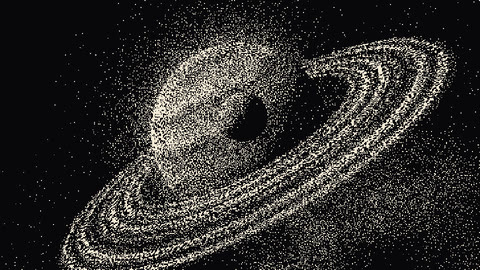
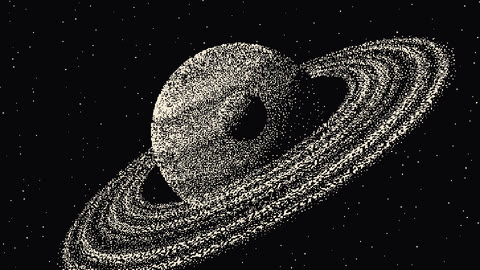
Fix #30 Dithering zoom-out clumping & dirty 1-bit background haze (1:1 Nyquist blue noise + crisp obsidian space)

diff --git a/docs/effects/dithering/shaders.js b/docs/effects/dithering/shaders.js
@@ -227,33 +227,32 @@ void evalGasGiant(vec3 pRot, float tFlow, out vec3 albedo, out float bandContras
   bandContrast = zone;
 }
 
-// Background diagonal Milky Way ribbon & crisp starfield (gives near-black dither noise-floor & PS1 banding test!)
+// Background cosmic nebula (color eras) & razor-clean starfield (crisp pure black space in 1-bit!)
 void evalSpaceBackground(vec3 rd, out vec3 col, out float luma) {
-  // Delicate diagonal Milky Way dust ribbon sloping lower-left -> upper-right behind the gas giant!
+  // Subtle deep-indigo & warm-ivory diagonal nebula for color eras (Mega Drive & PS1 RGB555 banding test)
   vec3 mwNormal = normalize(vec3(0.48, -0.80, 0.36));
   float dPlane = dot(rd, mwNormal) + 0.02;
-  float mwWide = exp(-pow(dPlane * 4.4, 2.0));
-  float mwCore = exp(-pow(dPlane * 10.5, 2.0));
-  float mwCloud = fbm3(rd * 4.6 + vec3(2.3, 1.1, 4.7));
+  float mwWide = exp(-pow(dPlane * 5.2, 2.0));
+  float mwCloud = fbm3(rd * 4.8 + vec3(2.3, 1.1, 4.7));
   float mwRift  = smoothstep(0.42, 0.70, fbm3(rd * 8.8 + vec3(5.1, 2.4, 0.8)));
-  float dust = (mwWide * 0.42 + mwCore * 0.48) * smoothstep(0.24, 0.84, mwCloud) * (1.0 - 0.56 * mwRift);
+  float dust = mwWide * smoothstep(0.28, 0.84, mwCloud) * (1.0 - 0.55 * mwRift);
 
-  // Smooth deep-indigo & warm-ivory cosmic gradient (exposes PS1 RGB555 banding & Atkinson black clip without overpowering rings!)
   vec3 baseVoid = vec3(0.008, 0.013, 0.028);
   vec3 mwColor  = mix(vec3(0.14, 0.22, 0.40), vec3(0.42, 0.37, 0.32), mwCloud) * dust;
   col = baseVoid + mwColor;
-  luma = clamp(dust * 0.28, 0.0, 0.52);
+  // Keep 1-bit void crisp pitch-black (zero muddy scatter clouds when zooming out!)
+  luma = 0.0;
 
-  // Crisp multi-scale pinpoint stars locked on celestial sphere
-  vec3 sc = rd * 132.0;
+  // Crisp pinpoint stars locked on celestial sphere
+  vec3 sc = rd * 138.0;
   vec3 si = floor(sc);
   vec3 sf = fract(sc) - 0.5;
   float sh = hash31(si);
-  if (sh > 0.982) {
+  if (sh > 0.986) {
     vec3 jitter = vec3(hash31(si + 7.1), hash31(si + 13.7), hash31(si + 29.3)) - 0.5;
-    float d = length(sf - jitter * 0.55);
-    float star = smoothstep(0.22, 0.03, d) * smoothstep(0.982, 0.998, sh);
-    vec3 starTint = mix(vec3(0.80, 0.90, 1.0), vec3(1.0, 0.92, 0.74), hash31(si + 41.2));
+    float d = length(sf - jitter * 0.52);
+    float star = smoothstep(0.20, 0.03, d) * smoothstep(0.986, 0.999, sh);
+    vec3 starTint = mix(vec3(0.82, 0.90, 1.0), vec3(1.0, 0.92, 0.76), hash31(si + 41.2));
     col += starTint * star * 1.15;
     luma = max(luma, star * 0.96);
   }
@@ -311,15 +310,14 @@ void main() {
   float spaceLuma;
   evalSpaceBackground(rd, spaceCol, spaceLuma);
 
-  // Lush smooth atmospheric halo glow around the sunlit planetary limb (super clear PS1 RGB555 banding test!)
+  // Soft color halo around sunlit limb (color eras only — 1-bit space stays razor-clean obsidian black!)
   float closestT = max(0.0, -dot(ro, rd));
   vec3 closestP = ro + rd * closestT;
   float limbDist = length(closestP) - PLANET_R;
-  float haloMask = exp(-max(limbDist, 0.0) * 4.4) * step(0.0, limbDist);
-  float haloSun = smoothstep(-0.32, 0.72, dot(normalize(closestP), sunDir));
-  vec3 haloCol = vec3(0.38, 0.62, 0.96) * haloMask * (0.14 + 0.62 * haloSun);
+  float haloMask = exp(-max(limbDist, 0.0) * 5.2) * step(0.0, limbDist);
+  float haloSun = smoothstep(-0.22, 0.72, dot(normalize(closestP), sunDir));
+  vec3 haloCol = vec3(0.38, 0.62, 0.96) * haloMask * (0.12 + 0.60 * haloSun);
   spaceCol += haloCol;
-  spaceLuma = clamp(spaceLuma + haloMask * (0.06 + 0.30 * haloSun), 0.0, 1.0);
 
   // Start with sky/space as base solid hit
   float tSolid = 1e9;
@@ -398,9 +396,11 @@ void main() {
     objId = 0.66;
     edgeMask = smoothstep(0.28, 0.06, ndv);
     // Co-rotating equal-area cube UV tightly in [-1, +1] for full RGBA16F precision on ALL 6 cube faces!
+    // Exact 1:1 Nyquist pixel footprint at the planet's center distance so dots stay razor-sharp 1px at any zoom!
     float pFace = 0.0;
     surfUv = sphereCubeUv(pRot, pFace);
-    surfFoot = (4.0 / PI) * (tPlanet * pixelRad / PLANET_R) / max(ndv, 0.46);
+    float planetDist = max(length(ro) - PLANET_R * 0.55, 0.6);
+    surfFoot = (4.0 / PI) * (planetDist * pixelRad / PLANET_R);
     surfKind = 10.0 + pFace;
   }
 
@@ -428,7 +428,8 @@ void main() {
     edgeMask = smoothstep(0.36, 0.08, ndv);
     float mFace = 0.0;
     surfUv = sphereCubeUv(mLoc, mFace);
-    surfFoot = (4.0 / PI) * (tMoon * pixelRad / MOON_R) / max(ndv, 0.48);
+    float moonDist = max(length(ro - moonPos) - MOON_R * 0.5, 0.4);
+    surfFoot = (4.0 / PI) * (moonDist * pixelRad / MOON_R);
     surfKind = 20.0 + mFace;
   }
 
@@ -470,8 +471,8 @@ void main() {
       float rAng = uLoopPeriod > 0.5 ? (uTime / uLoopPeriod) * (2.0 * PI) : uTime * 0.08;
       rSpin.xz = rot2(rAng) * ringHitLoc.xz;
       surfUv = rSpin.xz / RING_OUT;
-      float rGraz = max(abs(rdLoc.y), 0.30);
-      surfFoot = (tRing * pixelRad / RING_OUT) / rGraz;
+      float ringDist = max(length(ro), 1.0);
+      surfFoot = (ringDist * pixelRad / RING_OUT) / max(abs(rdLoc.y), 0.52);
       surfKind = 30.0;
       objId = 0.33;
     }
@@ -611,23 +612,6 @@ vec2 rayCubeUv(vec3 d) {
   return atan(uv);
 }
 
-// Exact closed-form CDF of weighted sum Z = (1-f)*U0 + f*U1 of two Uniform(0,1) thresholds.
-// Guarantees mathematically Uniform(0,1) output at EVERY octave blend fraction f in [0,1] -> zero midtone pop!
-float blendUniformThresholds(float u0, float u1, float f) {
-  float a = 1.0 - f;
-  float b = f;
-  float m = min(a, b);
-  float M = max(a, b);
-  float z = a * u0 + b * u1;
-  if (m < 1e-3) return z;
-  if (z <= m) return (z * z) / (2.0 * a * b);
-  if (z >= M) {
-    float r = 1.0 - z;
-    return 1.0 - (r * r) / (2.0 * a * b);
-  }
-  return (z - 0.5 * m) / M;
-}
-
 float sampleBlueNoisePx(vec2 coord) {
   vec2 uv = (floor(coord) + 0.5) / 64.0;
   return texture(uBlueNoise, uv).r;
@@ -724,28 +708,17 @@ vec3 evalStageAt(vec2 uv, int stage, bool isLeftSide, bool sameStageSplit) {
     return mix(cDark, cLight, bit);
   }
 
-  // STAGE 7: 2024-26 Surface-Anchored 3D Blue-Noise Stippling (Dual-Octave Variance-Preserving CDF!)
-  // Stipple dots lock directly to the rotating gas giant clouds, rings, orbiting moon & starry sky
-  // while keeping crisp, zoom-stable 1-bit density at any distance with full 32-bit float precision!
+  // STAGE 7: 2024-26 Surface-Anchored 3D Blue-Noise Stippling (1:1 Nyquist-Matched Void-and-Cluster!)
+  // Anchors pure 64x64 Ulichney Blue Noise directly onto the co-rotating planet, rings, moon & sky
+  // at exact 1.00 texel-per-virtual-pixel pitch so dots stay razor-sharp with zero clumping at any zoom!
   vec4 surf = texture(uSurf, qUv);
   vec2 sUv = surf.rg;
   float foot = max(surf.b, 1e-4);
   float surfId = surf.a;
 
-  // Continuous log2 scale matching 1 blue-noise texel to ~1.0 virtual pixel on screen
-  float idealTexelsPerUnit = 1.0 / foot;
-  float lod = log2(max(idealTexelsPerUnit, 1.0));
-  float lod0 = floor(lod);
-  float frac = fract(lod);
-
-  float scale0 = exp2(lod0);
-  float scale1 = scale0 * 2.0;
-
   // Apply per-object/per-face decorrelation offset in full 32-bit float (never in RGBA16F!)
   vec2 faceOff = vec2(mod(surfId * 17.0, 64.0), mod(surfId * 31.0, 64.0));
-  float bn0 = sampleBlueNoisePx(sUv * scale0 + faceOff);
-  float bn1 = sampleBlueNoisePx(sUv * scale1 + faceOff + vec2(23.0, 41.0));
-  float thresh = blendUniformThresholds(bn0, bn1, smoothstep(0.08, 0.92, frac));
+  float thresh = sampleBlueNoisePx(sUv / foot + faceOff);
 
   float bit = step(thresh, luma);
   return mix(cDark, cLight, bit);

diff --git a/docs/src/catalog.js b/docs/src/catalog.js
@@ -4969,8 +4969,8 @@ export const EFFECTS = [
         tabPl: "Mac Atkinson '84",
         en: "Macintosh Atkinson Dithering (Bill Atkinson, Apple 1984 — Live CPU)",
         pl: "Dithering Atkinsona z pierwszego Maca (Bill Atkinson, 1984 — CPU)",
-        noteEn: "Created by Bill Atkinson for the 1984 1-bit Macintosh 512×342 CRT: it diffuses only 6/8 (75%) of error to 6 neighbors and discards 25%. Compare vs Floyd–Steinberg in Split: faint Milky Way noise snaps to crisp pitch-black void and cloud bands gain punchy graphic contrast—still boiling in motion!",
-        notePl: "Stworzony przez Billa Atkinsona dla 1-bitowego ekranu Macintosha 1984 (512×342): rozprasza tylko 6/8 (75%) błędu na 6 sąsiadów i odrzuca 25%. Porównaj z Floydem–Steinbergiem: szum tła ucina się do czystej czerni, a pasy planety nabierają ostrości — choć w ruchu nadal falują!",
+        noteEn: "Created by Bill Atkinson for the 1984 1-bit Macintosh 512×342 CRT: it diffuses only 6/8 (75%) of error to 6 neighbors and discards 25%. Compare vs Floyd–Steinberg in Split: faint dark terminators snap to crisp pitch-black void and cloud bands gain punchy graphic contrast—still boiling in motion!",
+        notePl: "Stworzony przez Billa Atkinsona dla 1-bitowego ekranu Macintosha 1984 (512×342): rozprasza tylko 6/8 (75%) błędu na 6 sąsiadów i odrzuca 25%. Porównaj z Floydem–Steinbergiem: delikatne półcienie ucinają się do czystej czerni, a pasy planety nabierają ostrości — choć w ruchu nadal falują!",
         stage: 3,
         compareLeft: 2,
         compareRight: 3,
@@ -5040,9 +5040,9 @@ export const EFFECTS = [
         tabEn: "2026 3D Stippling",
         tabPl: "Stippling 3D '26",
         en: "Surface-Anchored 3D Blue-Noise Stippling (2024–26)",
-        pl: "Stippling 3D zakotwiczony na bryle (Blue Noise + dual-octave, 2026)",
-        noteEn: "Even sphere-locked dithering slips across moving objects and shifts density when zooming. Modern 3D stippling anchors Void-and-Cluster blue noise directly onto the co-rotating planet, rings & eclipsing moon using dual-octave variance-preserving CDF blending—scroll to zoom in/out and watch grain stay crisp and locked using only 2 colors!",
-        notePl: "Nawet blokada na sferze kamery ślizga się po wirującej planecie i zmienia gęstość przy zbliżeniu. Nowoczesny stippling 3D kotwiczy Blue Noise wprost na obracającej się powierzchni planety, pierścieni i księżyca z dwuoktawowym mieszaniem zachowującym wariancję — zbliżaj i oddalaj, a ziarno pozostaje ostre w zaledwie 2 kolorach!",
+        pl: "Stippling 3D zakotwiczony na bryle (Blue Noise 1:1, 2026)",
+        noteEn: "Even sphere-locked dithering slips across moving objects and shifts density when zooming. Modern 3D stippling anchors Void-and-Cluster blue noise directly onto the co-rotating planet, rings & eclipsing moon at exact 1:1 analytical pixel pitch—scroll to zoom in/out and watch grain stay razor-clean and locked using only 2 colors!",
+        notePl: "Nawet blokada na sferze kamery ślizga się po wirującej planecie i zmienia gęstość przy zbliżeniu. Nowoczesny stippling 3D kotwiczy Blue Noise wprost na obracającej się powierzchni planety, pierścieni i księżyca w dokładnej skali 1:1 piksela — zbliżaj i oddalaj, a ziarno pozostaje czyste i ostre w zaledwie 2 kolorach!",
         stage: 7,
         compareLeft: 0,
         compareRight: 7,

diff --git a/docs/effects/dithering/README.md b/docs/effects/dithering/README.md
@@ -11,4 +11,4 @@ Interactive WebGL2 tour of 53 years of dithering — from 1-bit bi-level display
 5. **Screen-Door Stipple Alpha & Limited Color (Mega Drive / VGA, 1988–94):** 9-bit `RGB333` palette dithering plus zero-alpha screen-door checkerboard transparency for the planetary rings (just like *Sonic* Mega Drive waterfalls). Toggle **CRT Composite** (or drag Split) to watch analog horizontal phosphor bleed melt the checkerboard into translucent silk.
 6. **15-Bit RGB555 Hardware Dithering (PlayStation 1, 1994):** Quantizing smooth lighting to 5 bits per channel triggers concentric contour banding across the planet's terminator; the PS1 GPU's exact `4×4` signed pre-truncation hardware dither matrix erases the bands.
 7. **Blue Noise & Obra Dinn Sphere-Lock (Ulichney 1993 · Lucas Pope 2018):** Deterministic `64×64` Void-and-Cluster blue noise (`O(1)` GPU lookup, zero plaid, zero boiling) projected onto world ray directions so orbiting the camera keeps 1-bit dots nailed to 3D space instead of swimming across monitor glass.
-8. **3D Surface-Anchored Stippling (2024–26):** Dual-octave blue-noise stippling anchored directly to the spinning planet's co-rotating equal-area cube coordinates, ring plane, and moon, blended through an exact closed-form Irwin–Hall/Bates variance-preserving CDF so dot grain stays crisp and uniform at any zoom level.
+8. **3D Surface-Anchored Stippling (2024–26):** Pure `64×64` Void-and-Cluster blue noise anchored directly to the spinning planet's co-rotating equal-area cube coordinates, ring plane, and moon at exact analytical `1:1` virtual-pixel pitch so dot grain stays razor-clean and locked at any zoom level.
